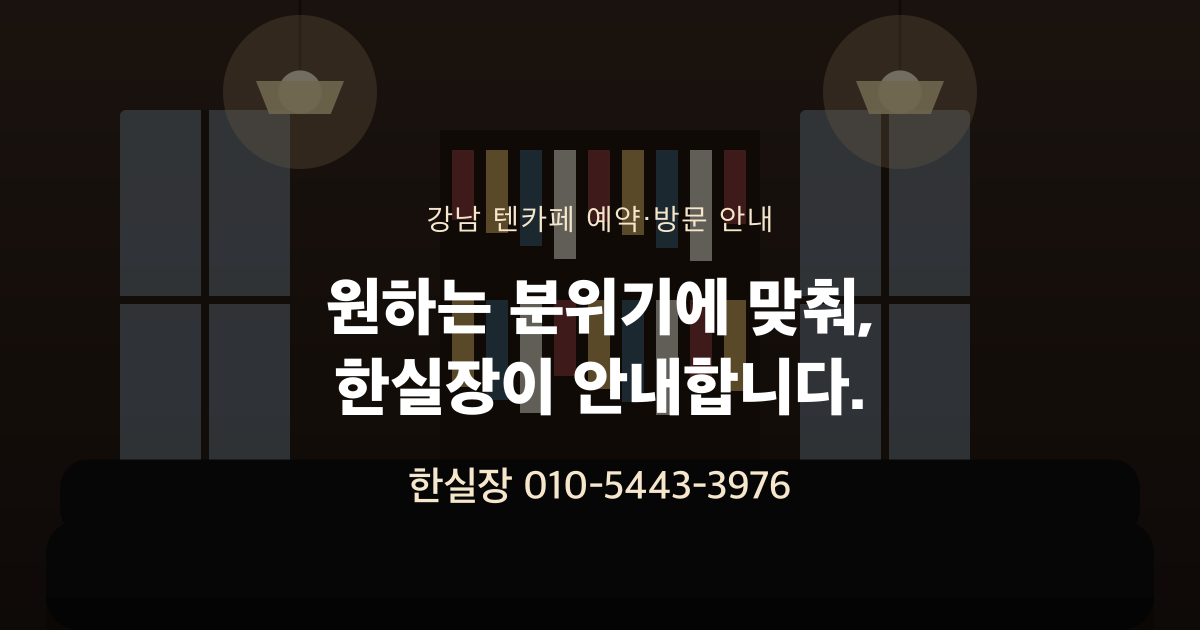
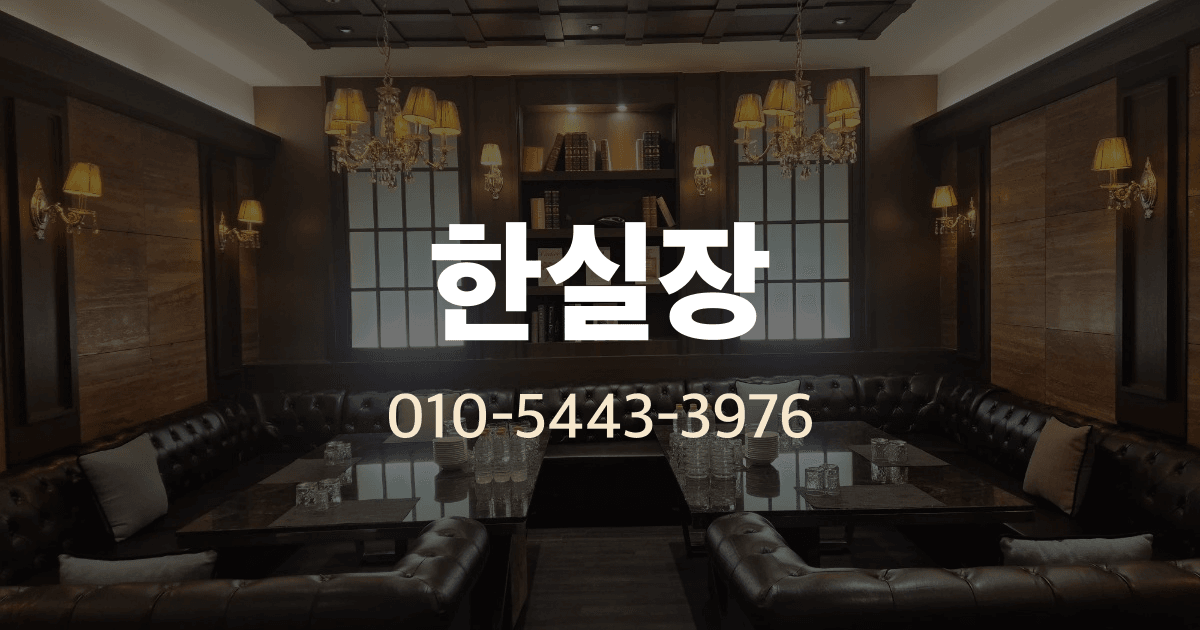
Apply final copy and photos from the content map
Use the supplied photos (renamed to neutral file names) for the hero,
space slider and gallery, add a call button to the header, lay the
reservation steps out as three cards, turn the location block into a
text card, make the FAQ collapsed by default, update the search
description and regenerate the share preview image. Keep the source
folder out of the repository and drop the sample illustrations.

diff --git a/components/Reservation.tsx b/components/Reservation.tsx
@@ -2,42 +2,44 @@ import { contact, faq, location, reservation } from "@/lib/content";
 
 export default function Reservation() {
   return (
-    <section id="reservation" className="mx-auto max-w-[1200px] scroll-mt-[68px] px-6 py-14 sm:py-20">
-      <div className="grid gap-14 lg:grid-cols-2 lg:gap-0">
-        <div className="lg:pr-14">
-          <h2 className="text-2xl font-bold sm:text-3xl">{reservation.title}</h2>
-          <ol className="mt-8 space-y-7">
-            {reservation.steps.map((s, i) => (
-              <li key={s.title} className="flex gap-5">
-                <span className="grid h-12 w-12 shrink-0 place-items-center rounded-xl bg-[var(--sand)] text-xl font-semibold">{i + 1}</span>
-                <div>
-                  <h3 className="text-lg font-bold">{s.title}</h3>
-                  <p className="mt-1.5 leading-7 text-[var(--muted)]">{s.desc}</p>
-                </div>
-              </li>
-            ))}
-          </ol>
+    <>
+      <section id="reservation" className="mx-auto max-w-[1200px] scroll-mt-[68px] px-6 pt-14 sm:pt-20">
+        <h2 className="text-2xl font-bold sm:text-3xl">{reservation.title}</h2>
+        <ol className="mt-8 grid gap-4 md:grid-cols-3">
+          {reservation.steps.map((s, i) => (
+            <li key={s.title} className="rounded-2xl border border-[var(--line)] bg-white p-6 sm:p-7">
+              <span className="grid h-12 w-12 place-items-center rounded-xl bg-[var(--sand)] text-xl font-semibold">{i + 1}</span>
+              <h3 className="mt-5 text-lg font-bold">{s.title}</h3>
+              <p className="mt-2 leading-7 text-[var(--muted)]">{s.desc}</p>
+            </li>
+          ))}
+        </ol>
+      </section>
 
-          <h2 className="mt-14 text-2xl font-bold sm:text-3xl">{location.title}</h2>
-          <p className="mt-4 leading-8 text-[var(--muted)]">{location.lines[0]}<br />{location.lines[1]}</p>
-          <a href={contact.sms} className="mt-6 inline-flex min-h-12 items-center rounded-xl border border-[var(--gold)] px-7 font-semibold text-[var(--gold)] transition hover:bg-[var(--gold)] hover:text-white">{location.button}</a>
-        </div>
-
-        <div className="lg:border-l lg:border-[var(--line)] lg:pl-14">
-          <h2 className="text-2xl font-bold sm:text-3xl">{faq.title}</h2>
-          <div className="mt-6">
-            {faq.items.map((f) => (
-              <details key={f.q} open className="group border-t border-[var(--line)] first:border-t-0">
-                <summary className="flex min-h-14 cursor-pointer list-none items-center justify-between gap-4 py-4 text-left font-semibold [&::-webkit-details-marker]:hidden">
-                  {f.q}
-                  <span aria-hidden className="w-5 shrink-0 text-center text-2xl leading-none text-[var(--gold)]"><span className="group-open:hidden">+</span><span className="hidden group-open:inline">−</span></span>
-                </summary>
-                <p className="pb-5 leading-7 text-[var(--muted)]">{f.a}</p>
-              </details>
-            ))}
+      <section aria-labelledby="location-title" className="mx-auto max-w-[1200px] px-6 pt-12 sm:pt-16">
+        <div className="flex flex-col gap-6 rounded-2xl bg-[var(--sand)] p-6 sm:p-10 md:flex-row md:items-center md:justify-between">
+          <div>
+            <h2 id="location-title" className="text-2xl font-bold sm:text-3xl">{location.title}</h2>
+            <p className="mt-4 leading-8 text-[var(--muted)]">{location.lines[0]}<br className="hidden lg:block" /> {location.lines[1]}</p>
           </div>
+          <a href={contact.sms} className="inline-flex min-h-12 shrink-0 items-center justify-center rounded-xl border border-[var(--gold)] bg-white px-7 font-semibold text-[var(--gold)] transition hover:bg-[var(--gold)] hover:text-white">{location.button}</a>
         </div>
-      </div>
-    </section>
+      </section>
+
+      <section aria-labelledby="faq-title" className="mx-auto max-w-[800px] px-6 py-14 sm:py-20">
+        <h2 id="faq-title" className="text-2xl font-bold sm:text-3xl">{faq.title}</h2>
+        <div className="mt-6 border-y border-[var(--line)]">
+          {faq.items.map((f) => (
+            <details key={f.q} className="group border-t border-[var(--line)] first:border-t-0">
+              <summary className="flex min-h-14 cursor-pointer list-none items-center justify-between gap-4 py-4 text-left font-semibold [&::-webkit-details-marker]:hidden">
+                {f.q}
+                <span aria-hidden className="w-5 shrink-0 text-center text-2xl leading-none text-[var(--gold)]"><span className="group-open:hidden">+</span><span className="hidden group-open:inline">−</span></span>
+              </summary>
+              <p className="pb-5 leading-7 text-[var(--muted)]">{f.a}</p>
+            </details>
+          ))}
+        </div>
+      </section>
+    </>
   );
 }

diff --git a/lib/content.ts b/lib/content.ts
@@ -1,7 +1,7 @@
 // 한실장 홈페이지 문구/데이터 (기획서 2026.10.26 기준). 문구·사진은 여기서 교체하세요.
 
-// 실제 매장 사진(webp)을 public/images에 같은 이름으로 넣고 IMG_EXT만 "webp"로 바꾸세요.
-const IMG_EXT = "svg";
+// 사진 교체: public/images에 같은 이름(.webp)으로 덮어쓰세요. 확장자가 다르면 IMG_EXT를 바꿉니다.
+const IMG_EXT = "webp";
 // GitHub Pages(basePath) 배포에서도 경로가 깨지지 않도록 asset()을 거친다
 export const asset = (path: string) => `${process.env.NEXT_PUBLIC_BASE_PATH ?? ""}${path}`;
 const img = (name: string) => asset(`/images/${name}.${IMG_EXT}`);
@@ -26,7 +26,7 @@ export const site = {
   // 배포 주소: 도메인을 연결하면 NEXT_PUBLIC_SITE_URL 환경변수로 바꾸세요
   url: (process.env.NEXT_PUBLIC_SITE_URL ?? "https://ksj1011.github.io/studycafe-clone").replace(/\/$/, ""),
   title: "한실장 | 강남 텐카페 예약·방문 문의",
-  description: "방문 날짜와 인원, 원하시는 분위기를 알려주세요. 예약 가능 여부와 방문 위치를 안내해드립니다.",
+  description: "강남 텐카페 예약과 방문 안내. 희망 날짜, 시간, 인원을 한실장에게 문의하세요. 010-5443-3976.",
 };
 
 export const nav = [
@@ -59,7 +59,7 @@ export const guide = {
 
 export const spaces = {
   title: "사진으로 미리 살펴보는 공간",
-  desc: "룸 구성과 좌석, 인테리어 분위기를 확인해 보세요. 마음에 드는 공간이 있다면 방문 일정과 함께 문의해 주세요.",
+  desc: ["룸 구성과 좌석, 인테리어 분위기를 확인해 보세요.", "마음에 드는 공간이 있다면 방문 일정과 함께 문의해 주세요."],
   button: "공간 문의하기",
   items: [
     { title: "은은한 조명의 룸", desc: "크림색 소파와 곡선 조명이 어우러진 룸을 살펴보세요.", img: photos.roomCream },
@@ -96,11 +96,11 @@ export const faq = {
 };
 
 export const gallery = [
-  { src: photos.main, alt: "메인 룸" },
-  { src: photos.roomCream, alt: "크림색 소파 룸" },
-  { src: photos.seating, alt: "좌석 공간" },
-  { src: photos.roomBlue, alt: "블루 톤의 룸" },
-  { src: photos.roomGreen, alt: "그린 포인트 룸" },
+  { src: photos.main, alt: "우드 벽과 샹들리에가 보이는 룸 전경" },
+  { src: photos.roomCream, alt: "크림색 소파와 곡선 조명이 어우러진 룸" },
+  { src: photos.seating, alt: "테이블을 둘러싼 좌석과 룸 내부" },
+  { src: photos.roomBlue, alt: "블루 톤의 소파와 샹들리에가 있는 룸" },
+  { src: photos.roomGreen, alt: "그린 쿠션과 따뜻한 조명으로 꾸며진 룸" },
 ];
 
 export const closing = {

diff --git a/components/Header.tsx b/components/Header.tsx
@@ -61,12 +61,15 @@ export default function Header() {
     <header className="sticky top-0 z-50 border-b border-white/10 bg-[var(--ink)] text-white">
       <div className="mx-auto flex h-[68px] max-w-[1200px] items-center gap-4 px-4 sm:px-6 md:gap-10">
         <a href="#" onClick={(e) => { e.preventDefault(); setOpen(false); window.scrollTo({ top: 0, behavior: "smooth" }); }} className="shrink-0 whitespace-nowrap text-xl font-bold">{contact.name}</a>
-        <nav className="ml-auto hidden gap-2 text-[15px] font-medium md:flex lg:gap-4">
-          {nav.map((n) => (
-            <a key={n.id} href={`#${n.id}`} onClick={(e) => go(e, n.id)} className={`flex min-h-11 items-center border-b-2 px-2 transition-colors hover:text-[var(--cream)] ${active === n.id ? "border-[var(--cream)] text-[var(--cream)]" : "border-transparent text-white/80"}`}>{n.label}</a>
-          ))}
-        </nav>
-        <button aria-label="메뉴" aria-expanded={open} onClick={() => setOpen((v) => !v)} className="-mr-2 ml-auto flex h-11 w-11 shrink-0 items-center justify-center rounded-lg text-xl md:hidden">{open ? "✕" : "☰"}</button>
+        <div className="ml-auto flex items-center gap-1 md:gap-6">
+          <nav className="hidden gap-2 text-[15px] font-medium md:flex lg:gap-4">
+            {nav.map((n) => (
+              <a key={n.id} href={`#${n.id}`} onClick={(e) => go(e, n.id)} className={`flex min-h-11 items-center border-b-2 px-2 transition-colors hover:text-[var(--cream)] ${active === n.id ? "border-[var(--cream)] text-[var(--cream)]" : "border-transparent text-white/80"}`}>{n.label}</a>
+            ))}
+          </nav>
+          <a href={contact.tel} className="inline-flex min-h-10 shrink-0 items-center rounded-lg bg-[var(--cream)] px-4 text-sm font-semibold text-[var(--ink)] transition hover:brightness-95">전화 문의</a>
+          <button aria-label="메뉴" aria-expanded={open} onClick={() => setOpen((v) => !v)} className="-mr-2 flex h-11 w-11 shrink-0 items-center justify-center rounded-lg text-xl md:hidden">{open ? "✕" : "☰"}</button>
+        </div>
       </div>
       {open && (
         <nav className="absolute left-0 right-0 top-full flex flex-col border-b border-white/10 bg-[var(--ink)] px-6 py-2 shadow-lg md:hidden">

diff --git a/components/Spaces.tsx b/components/Spaces.tsx
@@ -66,7 +66,7 @@ export default function Spaces() {
     <section id="spaces" className="scroll-mt-[68px] bg-[var(--sand)]/50 py-14 sm:py-20">
       <div className="mx-auto max-w-[1200px] px-6">
         <h2 className="text-2xl font-bold sm:text-3xl">{spaces.title}</h2>
-        <p className="mt-4 max-w-2xl text-base leading-7 text-[var(--muted)] sm:text-lg">{spaces.desc}</p>
+        <p className="mt-4 max-w-2xl text-base leading-7 text-[var(--muted)] sm:text-lg">{spaces.desc[0]}<br className="hidden sm:block" /> {spaces.desc[1]}</p>
       </div>
       <div className="relative mt-8">
         <button aria-label="이전" className={`${arrow} left-6`} disabled={index === 0} onClick={() => goTo(index - 1)}>‹</button>

diff --git a/README.md b/README.md
@@ -16,15 +16,15 @@ npm run build      # 빌드 (sitemap.xml / robots.txt 자동 생성)
 
 ## 사진 교체
 
-현재 사진은 샘플 일러스트입니다. 사용 권한을 확인한 실제 매장 사진(webp)을 `public/images/`에 아래 이름으로 넣으세요.
-
-`01_main` · `02_room_cream` · `03_seating` · `04_room_blue` · `05_room_green` · `06_hall`
-
-그다음 `lib/content.ts`의 `IMG_EXT`를 `"webp"`로 바꾸고 OG 이미지를 다시 만듭니다.
+사진은 `public/images/`의 `01_main` · `02_room_cream` · `03_seating` · `04_room_blue` · `05_room_green` · `06_hall` (.webp)입니다.
+같은 이름으로 덮어쓰면 교체됩니다. 확장자가 다르면 `lib/content.ts`의 `IMG_EXT`를 바꾸세요.
+게시하는 사진은 사용 권한을 확인한 것만 쓰세요. 메인 사진(01)을 바꿨다면 공유 미리보기 이미지도 다시 만듭니다.
 
 ```bash
-node scripts/gen-og.mjs     # public/og.png (공유 미리보기 이미지)
+node scripts/gen-og.mjs     # public/og.png (메인 사진 + 한실장 + 연락처)
 ```
+
+기획서 원본 자료(`han_site_content/`)는 `.gitignore`로 제외되어 저장소에 올라가지 않습니다.
 
 ## SEO / 배포
 
